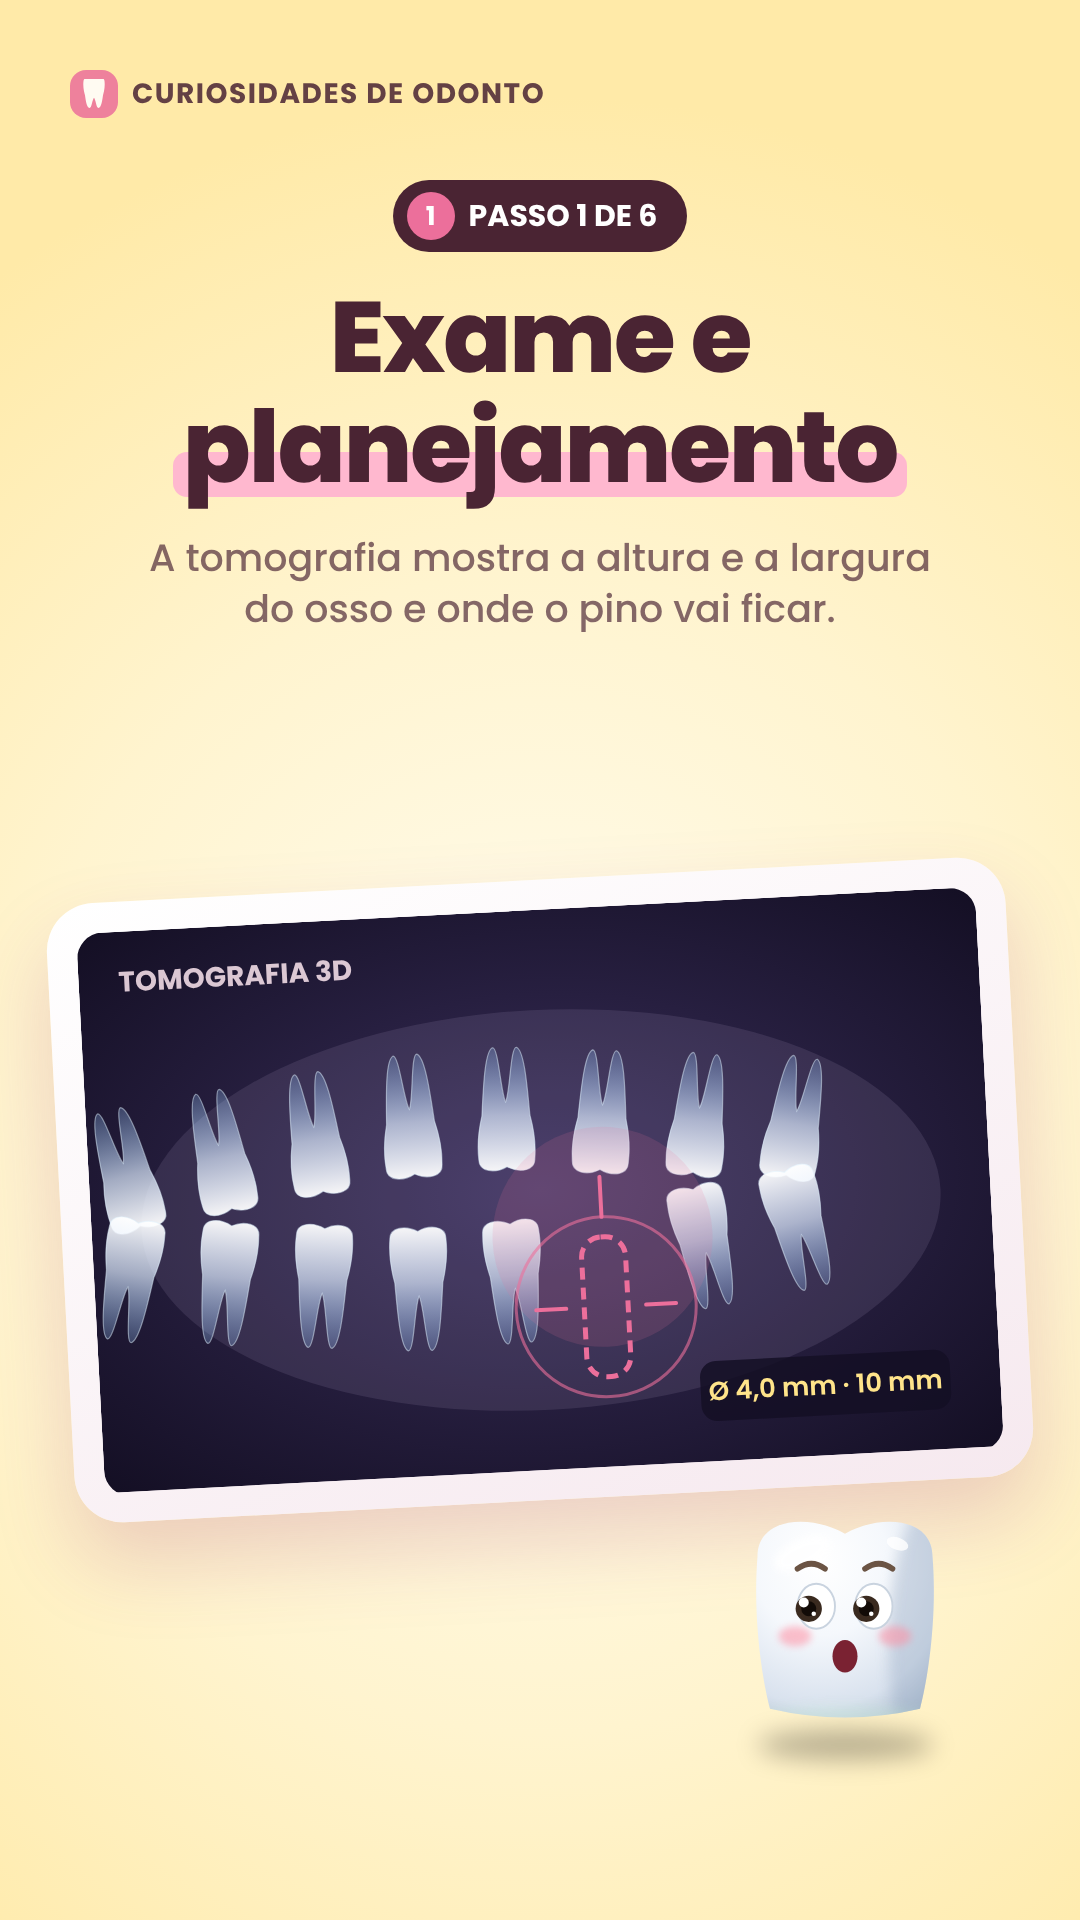
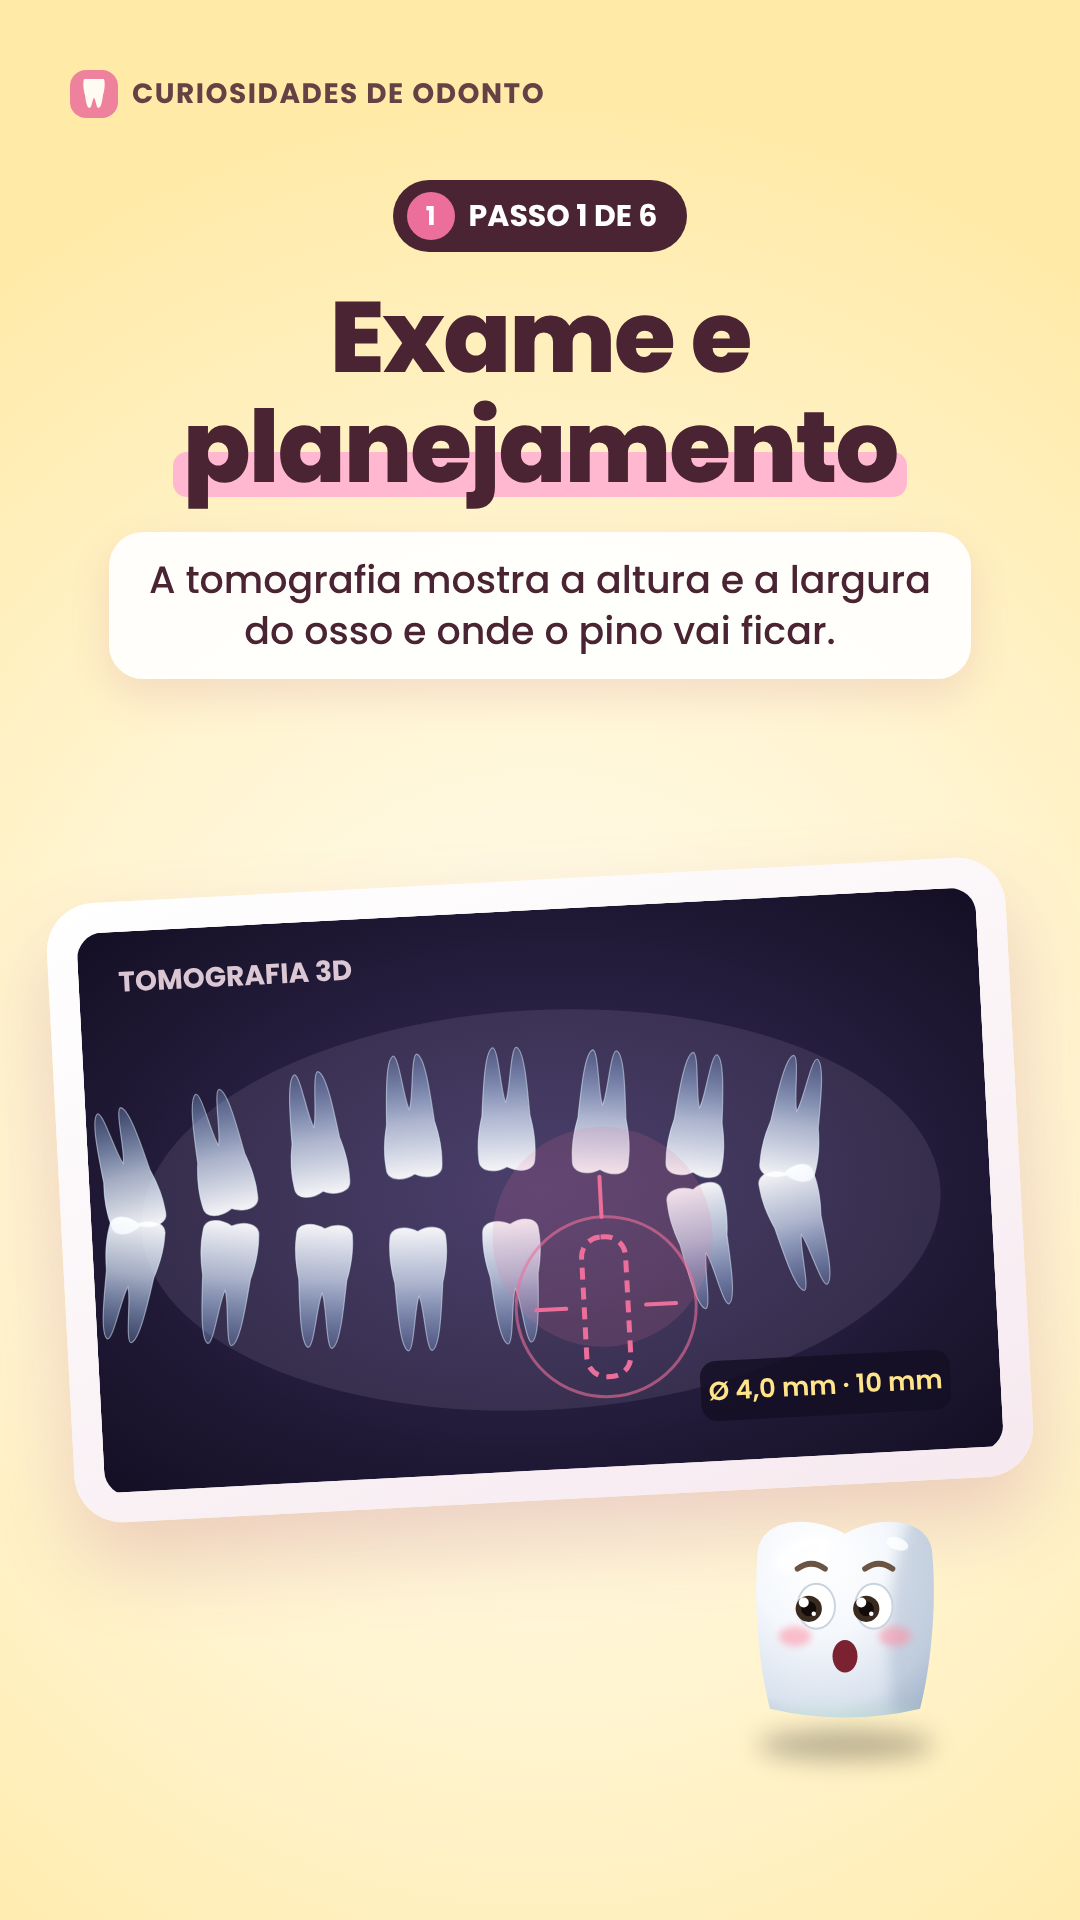
Coloca os textos explicativos dentro de caixas
Claude-Session: https://claude.ai/code/session_01VNqzdhCohJ8VSp7iHCzEPU

Changed region(s): [[0.0917, 0.25, 0.9167, 0.375]]

diff --git a/src/Curiosidades/scenes/Implante.tsx b/src/Curiosidades/scenes/Implante.tsx
@@ -29,6 +29,7 @@ export const SAnatomia: React.FC = () => (
       <Title lines={["As 3 partes", "do *implante*"]} size={104} />
     </Top>
     <svg viewBox="0 0 1000 1300" width={1080} height={1404} style={{ position: "absolute", top: 560, left: 0, overflow: "visible" }}>
+      <g transform="translate(-120 0)">
       <path d="M380 270 L380 1180" stroke={C.ink} strokeOpacity={0.15} strokeWidth={4} strokeDasharray="10 14" />
       <g transform="translate(240 10) scale(1.4)">
         <ToothG crownOnly mood="happy" />
@@ -39,18 +40,10 @@ export const SAnatomia: React.FC = () => (
       <g transform="translate(380 560) scale(1.15)">
         <Screw len={420} phase={0.3} />
       </g>
-      <SvgLabel x={500} y={120} tx={620} ty={120} text="Coroa" />
-      <text x={620} y={200} fontFamily={fontFamily} fontWeight={500} fontSize={30} fill={C.ink} opacity={0.65}>
-        o "dente" que aparece
-      </text>
-      <SvgLabel x={450} y={390} tx={620} ty={390} text="Pilar" />
-      <text x={620} y={470} fontFamily={fontFamily} fontWeight={500} fontSize={30} fill={C.ink} opacity={0.65}>
-        liga a coroa ao pino
-      </text>
-      <SvgLabel x={450} y={760} tx={600} ty={760} text="Pino de titânio" />
-      <text x={600} y={840} fontFamily={fontFamily} fontWeight={500} fontSize={30} fill={C.ink} opacity={0.65}>
-        fica no osso, como a raiz
-      </text>
+      <SvgLabel x={500} y={120} tx={620} ty={120} text="Coroa" sub={'o "dente" que aparece'} />
+      <SvgLabel x={450} y={390} tx={620} ty={390} text="Pilar" sub="liga a coroa ao pino" />
+      <SvgLabel x={450} y={760} tx={560} ty={760} text="Pino de titânio" sub="fica no osso, como a raiz" />
+      </g>
     </svg>
   </Scene>
 );

diff --git a/src/Curiosidades/Parts.tsx b/src/Curiosidades/Parts.tsx
@@ -81,19 +81,35 @@ export const SvgLabel: React.FC<{
   dark?: boolean;
   size?: number;
   center?: boolean;
-}> = ({ x, y, tx, ty, text, dark, size = 34, center }) => {
-  const w = text.length * size * 0.58 + 56;
-  const h = size * 1.9;
+  sub?: string;
+}> = ({ x, y, tx, ty, text, dark, size = 34, center, sub }) => {
+  const subSize = size * 0.8;
+  const w = Math.max(text.length * size * 0.62, (sub?.length ?? 0) * subSize * 0.56) + 64;
+  const h = sub ? size * 3.3 : size * 1.9;
   const left = tx >= x;
   const px = center ? tx - w / 2 : left ? tx : tx - w;
   return (
     <g>
       <path d={`M${x} ${y} L${tx} ${ty}`} stroke={dark ? "#ffffff" : C.ink} strokeOpacity={0.55} strokeWidth={4} strokeLinecap="round" />
       <circle cx={x} cy={y} r={10} fill={C.accent} stroke="#fff" strokeWidth={4} />
-      <rect x={px} y={ty - h / 2} width={w} height={h} rx={h / 2} fill={dark ? "#ffffff" : C.ink} />
+      <rect x={px} y={ty - h / 2} width={w} height={h} rx={sub ? 30 : h / 2} fill={dark ? "#ffffff" : C.ink} />
+      {sub ? (
+        <text
+          x={px + w / 2}
+          y={ty + size * 1.05}
+          textAnchor="middle"
+          fontFamily={fontFamily}
+          fontWeight={500}
+          fontSize={subSize}
+          fill={dark ? C.ink : "#fff"}
+          opacity={0.85}
+        >
+          {sub}
+        </text>
+      ) : null}
       <text
         x={px + w / 2}
-        y={ty + size * 0.36}
+        y={ty + size * (sub ? -0.25 : 0.36)}
         textAnchor="middle"
         fontFamily={fontFamily}
         fontWeight={700}

diff --git a/src/Curiosidades/scenes/Scenes.tsx b/src/Curiosidades/scenes/Scenes.tsx
@@ -131,7 +131,7 @@ export const S04Numero: React.FC = () => (
       <Ridge after />
       <div style={{ fontWeight: 700, fontSize: 36, marginTop: 10 }}>1 ano depois</div>
     </Card>
-    <Small style={{ position: "absolute", bottom: 90, left: 0, right: 0, fontSize: 26 }}>Fonte: Schropp et al., 2003</Small>
+    <Small style={{ position: "absolute", bottom: 90, left: 0, right: 0, margin: "0 auto", width: "fit-content", fontSize: 26, padding: "12px 28px" }}>Fonte: Schropp et al., 2003</Small>
   </Scene>
 );
 

diff --git a/src/Curiosidades/Layout.tsx b/src/Curiosidades/Layout.tsx
@@ -161,8 +161,12 @@ export const Small: React.FC<{ children: React.ReactNode; style?: React.CSSPrope
       fontSize: 38,
       lineHeight: 1.35,
       textAlign: "center",
-      color: C.inkSoft,
+      color: C.ink,
       whiteSpace: "pre-line",
+      background: "rgba(255,255,255,0.92)",
+      borderRadius: 34,
+      padding: "22px 40px",
+      boxShadow: "0 16px 40px rgba(170,70,110,0.14)",
       ...style,
     }}
   >
